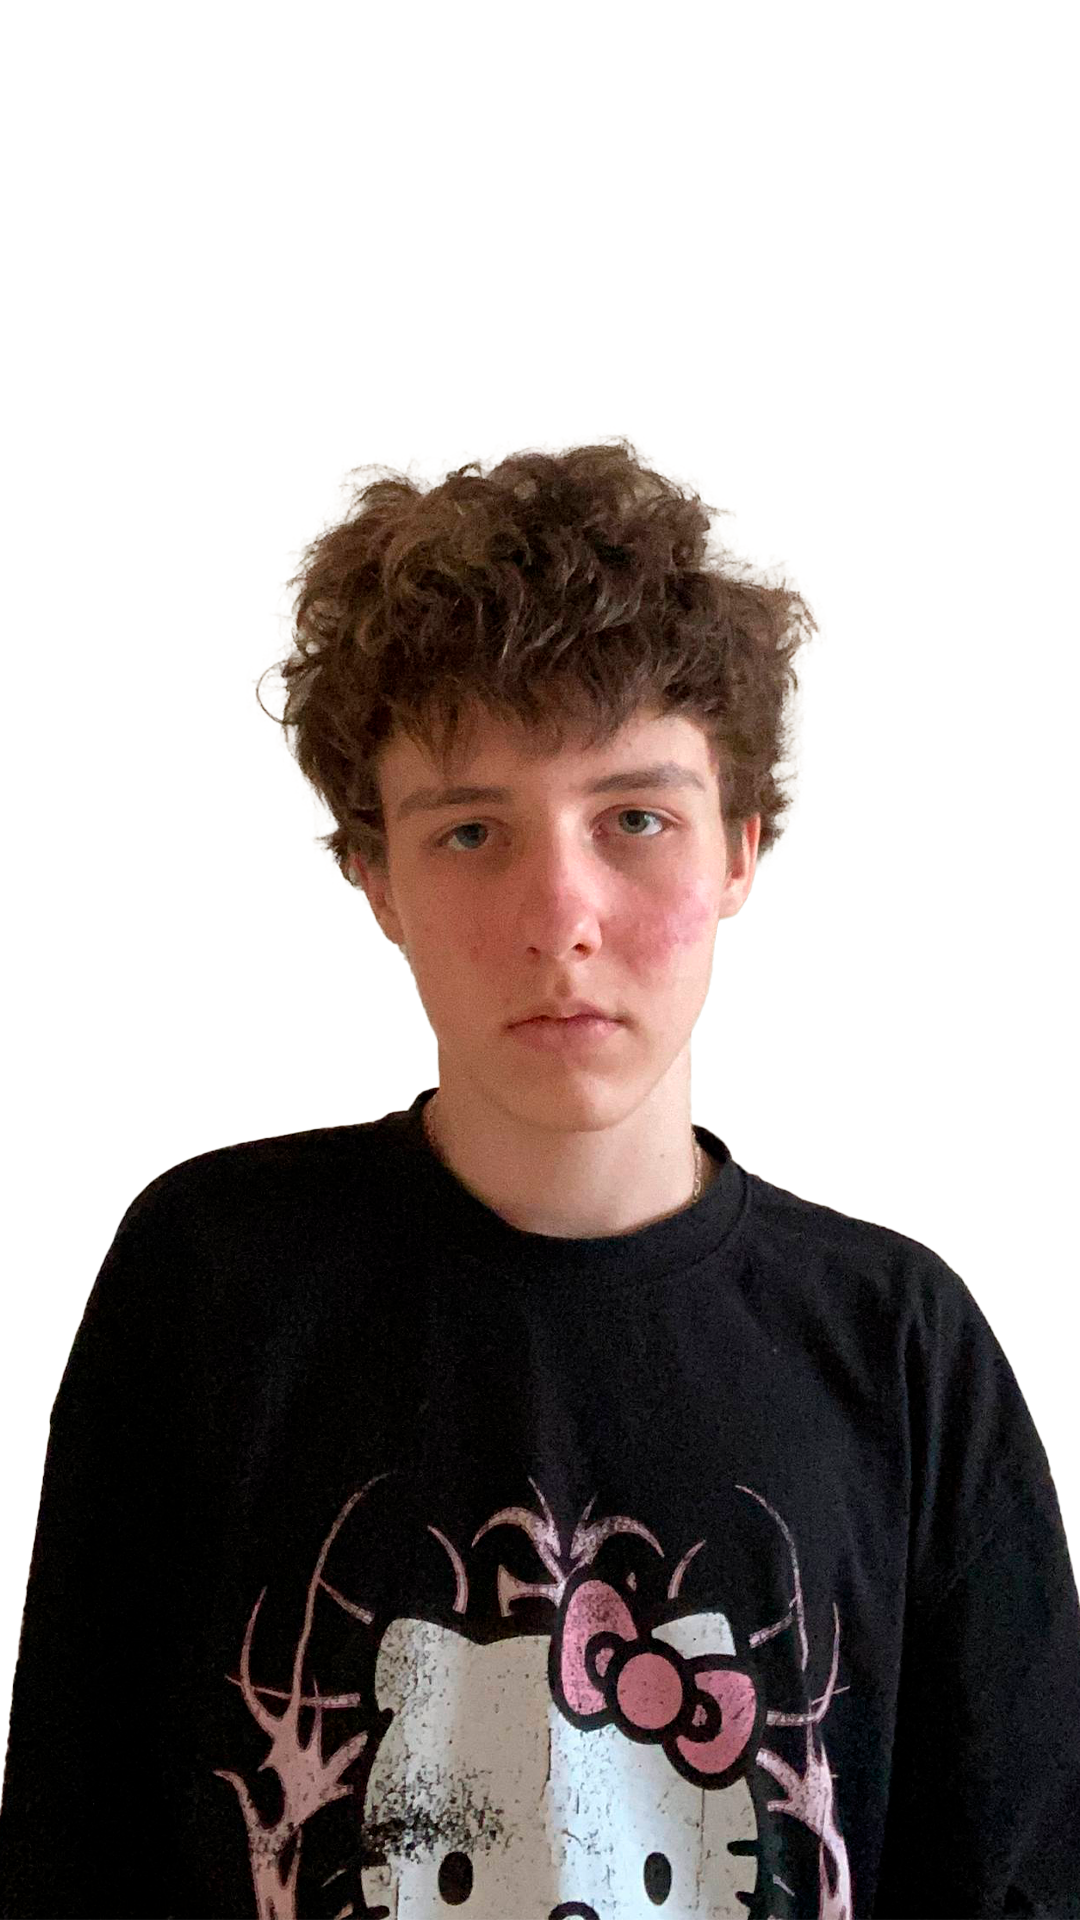
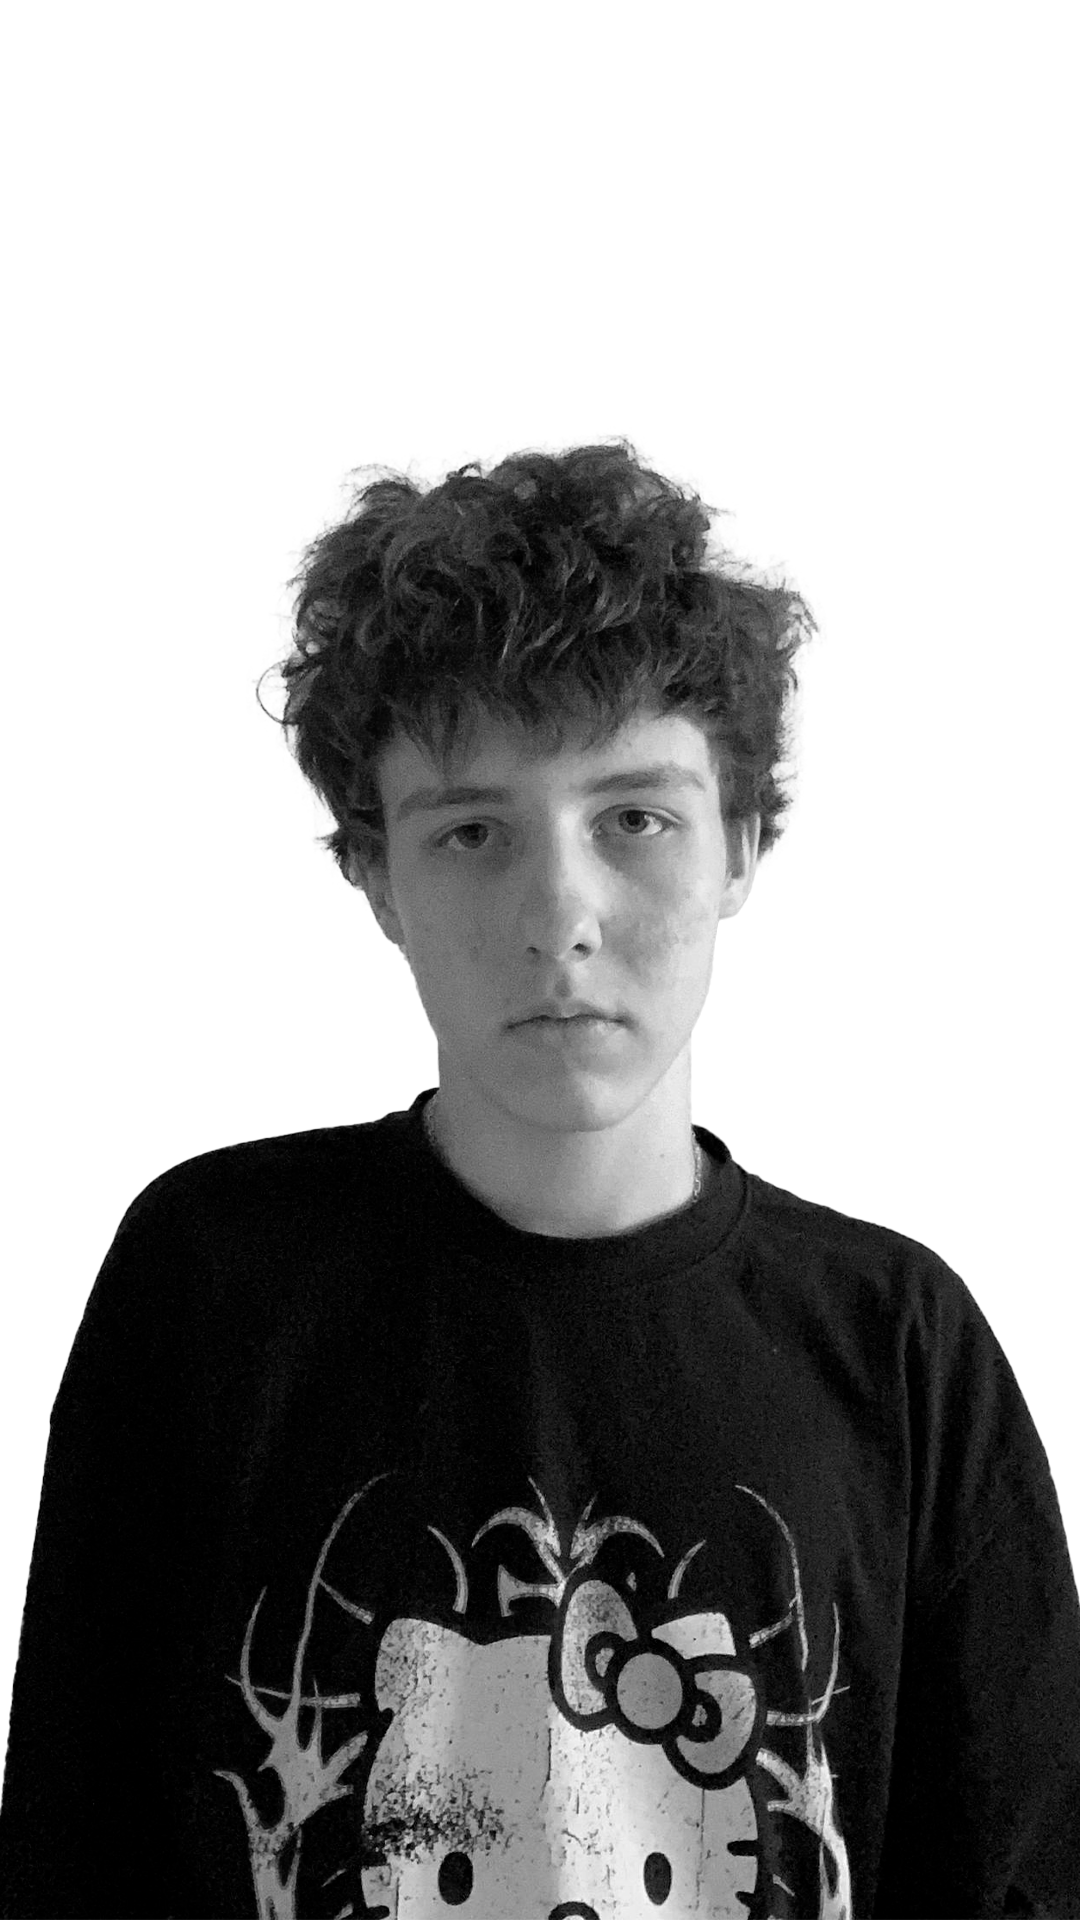
Artem: move links to slide 1, black text, new photo, aligned embeds
- Social link buttons moved from slide 2 to slide 1 (Artem only)
- Artist name and description rendered in black for colored bg
- Slide 2 now shows YouTube + SoundCloud embeds side by side
- Updated artist photo
- Smolyakov page unchanged

Claude-Session: https://claude.ai/code/session_01JcS4LiSfxrTcr8Xo2zGeCs

diff --git a/index.html b/index.html
@@ -906,6 +906,12 @@
       background: transparent;
       backdrop-filter: none; -webkit-backdrop-filter: none;
     }
+    .a-info-dark .a-artist-name { color: #0D0D0D; }
+    .a-info-dark .a-desc { color: rgba(0,0,0,0.8); }
+    .a-info-dark .a-desc a { color: #0D0D0D; }
+    .slide-media-embeds-only {
+      grid-template-columns: 1fr 1fr;
+    }
 
     /* Slide 2 — Media & socials: desktop = links left, players right (YT top, SC bottom) */
     .slide-media-content {
@@ -1802,22 +1808,22 @@
         <div class="artist-slide">
           <div class="slide-intro">
             <div class="a-photo-wrap"><img class="a-photo" src="/${a.photo}" alt="${a.name}" /></div>
-            <div class="a-info">
+            <div class="a-info ${a.introBgColor ? 'a-info-dark' : ''}">
               <h2 class="a-artist-name">${a.name}</h2>
               <p class="a-desc" data-desc-en="${(a.description || '').replace(/"/g, '&quot;')}" data-desc-ua="${(a.descriptionUa || a.description || '').replace(/"/g, '&quot;')}">${currentLang === 'ua' ? (a.descriptionUa || a.description || '') : (a.description || '')}</p>
               ${contactsHtml ? '<div class="a-contacts">' + contactsHtml + '</div>' : ''}
+              ${scUnderLinks && linksHtml ? '<div class="a-links" style="margin-top:24px;">' + linksHtml + '</div>' : ''}
             </div>
           </div>
         </div>
 
         <!-- SLIDE 2 — Media -->
         <div class="artist-slide">
-          <div class="slide-media-content">
-            <div>
-              <div class="a-links">${linksHtml}</div>
-              ${scUnderLinks ? '<div class="a-embeds" style="margin-top:24px;">' + scEmbedsHtml + '</div>' : ''}
-            </div>
-            ${rightEmbedsHtml ? '<div class="a-embeds">' + rightEmbedsHtml + '</div>' : ''}
+          <div class="slide-media-content ${scUnderLinks ? 'slide-media-embeds-only' : ''}">
+            ${scUnderLinks
+              ? '<div class="a-embeds">' + youtubeHtml + '</div><div class="a-embeds">' + scEmbedsHtml + '</div>'
+              : '<div><div class="a-links">' + linksHtml + '</div></div>' + (rightEmbedsHtml ? '<div class="a-embeds">' + rightEmbedsHtml + '</div>' : '')
+            }
           </div>
         </div>
 
